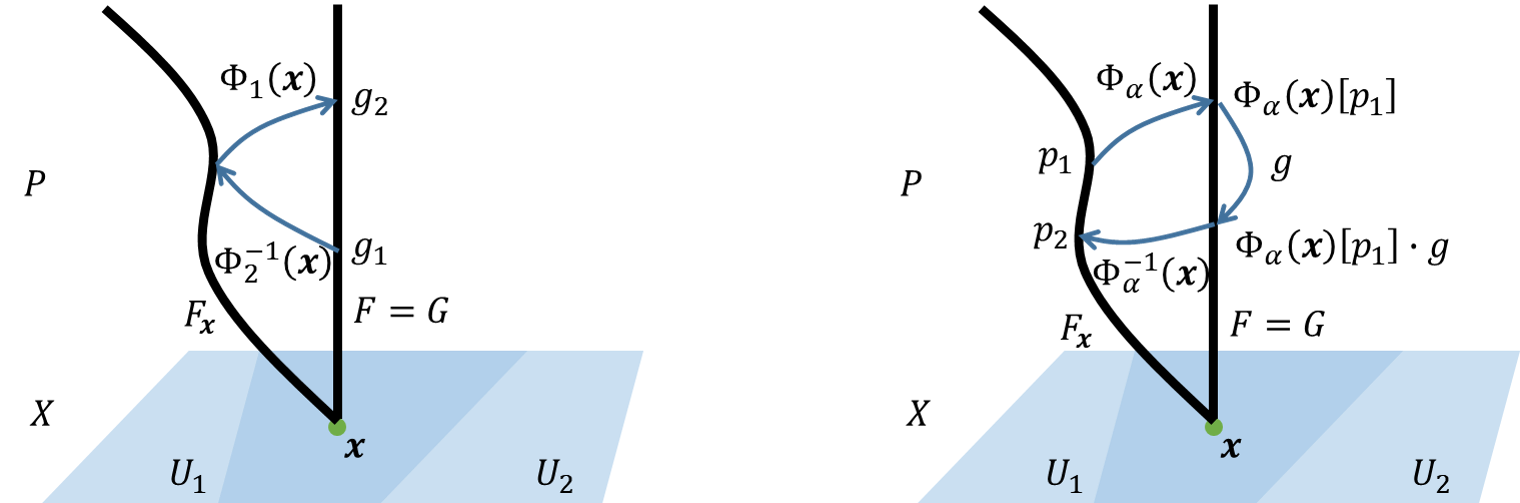
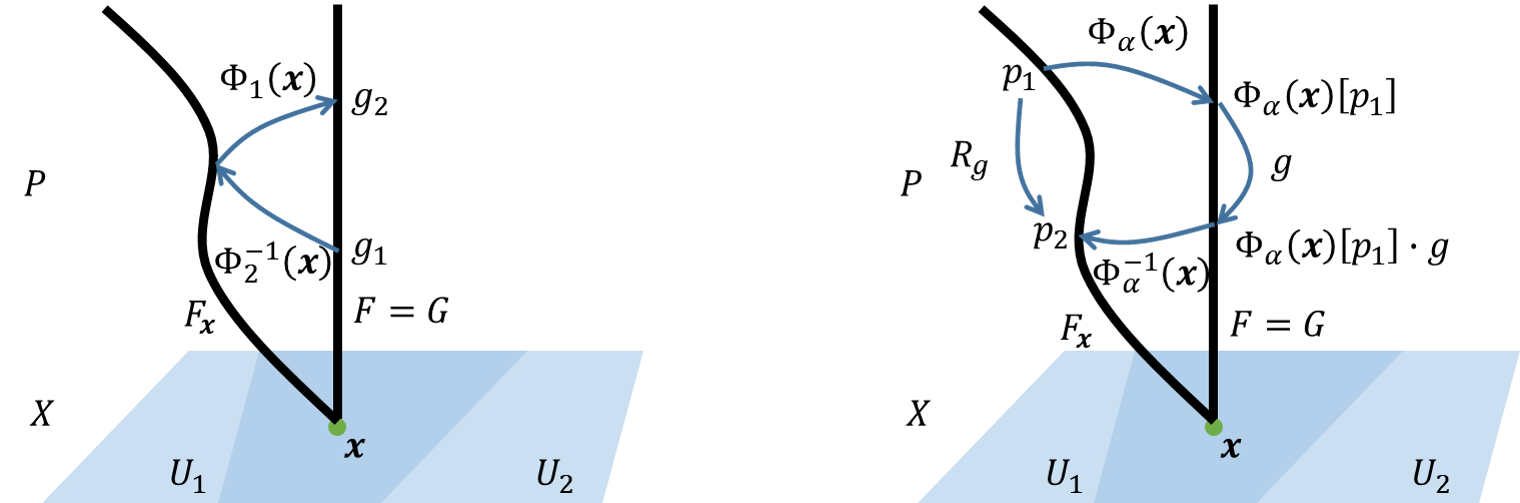
fiber

Changed region(s): [[0.6184, 0.2087, 0.7421, 0.4175], [0.6493, 0.1193, 0.8039, 0.2684], [0.7112, 0.0298, 0.773, 0.0895]]

diff --git a/_posts/2018-11-30-Fiber-Bundles/2018-11-30-Fiber-Bundles.md b/_posts/2018-11-30-Fiber-Bundles/2018-11-30-Fiber-Bundles.md
@@ -224,8 +224,7 @@ $$
 p _ 1 \stackrel{G _ {\alpha \beta}}{\rightarrow} p _ 2 = R _ g (p _ 1) \defas \Phi _ \alpha ^ {-1} (x) [\Phi _ \alpha (x)[p _ 1] \bullet g]
 $$
 
-where $x \defas \pi (p _ 1)$ and $\bullet$ denotes the group multiplication in $G$. In this way the right action of $G$ moves the points of $P$ within individual fibers. The definition is independent of the choice of the local chart. There is a rather confusing but widely used notation:
-
+where $x \defas \pi (p _ 1)$ and $\bullet$ denotes the group multiplication in $G$. In this way the right action of $G$ moves the points of $P$ within individual fibers. The definition is independent of the choice of the local chart. We can think of the group $G$ as being an action which pushes points in the bundle around the bundle along the fibers. There is a rather confusing but widely used notation:
 $$
 p _ 2 \defas R _ g (p _ 1) = p _ 1 \cdot g
 $$
@@ -317,7 +316,7 @@ The way to determine uniquely the parallel vector $v _ 1$ at the point of $x _ 1
 - A point $x$ which is nearby $x _ 2$: $x \defas C _ X (t = T - \dd t)$.
 - Imagine the manifold $TM$ is imbedded in a Euclidean space $\realset ^ d (T \realset ^ d = \realset ^ d)$ and view $C _ X$ as sitting inside $\realset ^ d$.
 - Treat the vector $v _ 2$ as an element of $\realset ^d$ and find the parallel vector to $v _ 2$ at the point of $x$.
-- Choose the component of it which is tangent to $X$ and discard the normal component.
+- Choose the component of it which is tangent to $T _ p M$ and discard the normal component.
 - Repeat the process till the point $x _1$.
 
 The above procedure ensures that:
@@ -328,7 +327,16 @@ The above procedure ensures that:
 
 <img src = "https://raw.githubusercontent.com/yf-liu/yf-liu.github.io/master/_posts/2018-11-30-Fiber-Bundles/assets/parallelism.png" width="30%">
 
-、
+### Parallelism and principle fiber bundle
+
+Consider a PFB $P: (P , X , \pi , G)$ and a smooth curve $C _ X$ in $X$ with parameter $t \in [0 , T]$. We will view the concept of parallel transportation on $P$ as a means to find a curve $C _ P$ in the total space $P$ that follows the curve $C_ X$, such that
+
+- $C _ P$ projects onto $C _ X$ under the projection $\pi : P \rightarrow X$.
+- The tangent vectors $\omega _ t \in T P$ to $C _ P$ project onto the tangent vectors $v _ t \in T X$ to $C _ X$ under the push-forward(differential) map $\pi _ * : T P \rightarrow T X$.
+
+<img src = "https://raw.githubusercontent.com/yf-liu/yf-liu.github.io/master/_posts/2018-11-30-Fiber-Bundles/assets/Cp.png" width="30%">
+
+The structure that enables one to determine the curve $C _ P : t \longrightarrow p(t) \in P$ uniquely for a given curve $C _ X : t \longrightarrow x(t) \in P$ and a initial condition $p (0) \in F _ {x(0)}$, is a geometry or a connection on the PFB $P$. The curve $C _ P$ os the horizon lift of $C _ X$ associated with this connection. The tangent vectors $\omega _ t$ to $C _ P$ are the horizontal vectors. 
 
 
 
